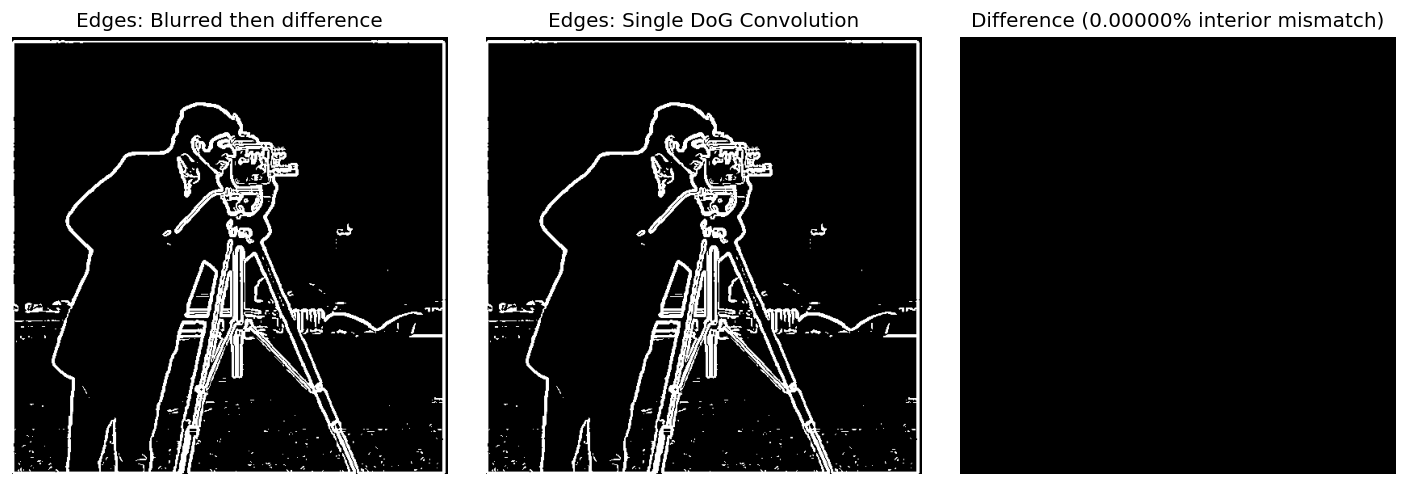
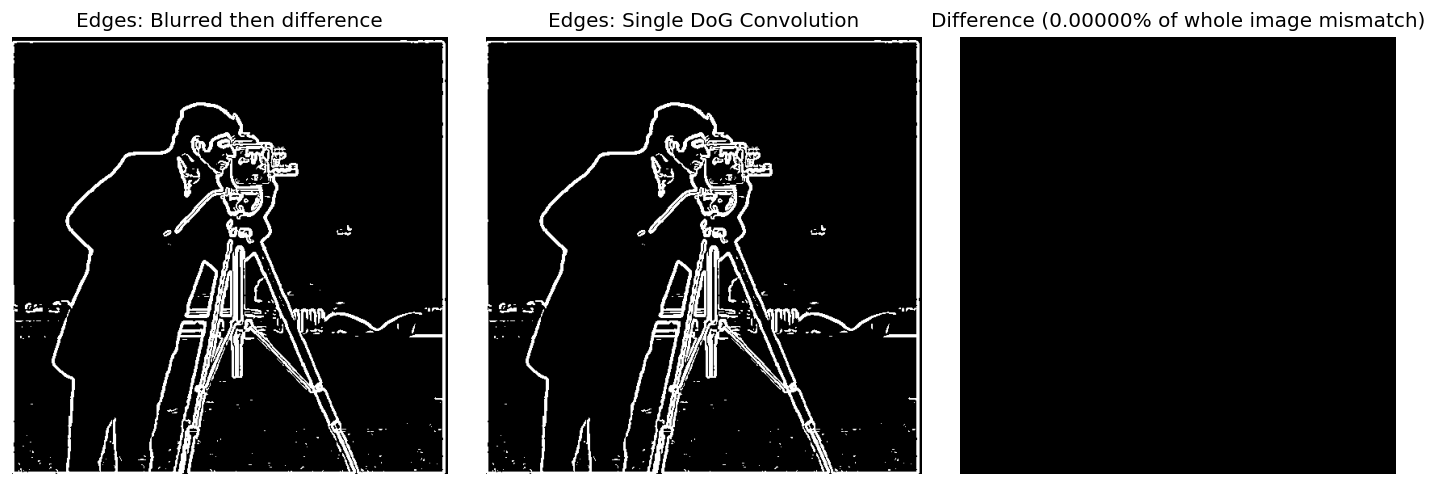
grammer

diff --git a/2/index.html b/2/index.html
@@ -260,7 +260,7 @@
         From the results above, I decided to select a threshold value of 0.2. At 0.1 and 0.15, many pixels were flagged as 
         edges. This results in a lot of noise in the background. At 0.25 and above, most of the noise have been removed. 
         However, it also starts to drop edges from the cameraman and the tripod. Therefore, 0.2 was the best middle point
-        to ensure that the image while still shows the finer edges of the tripod and the outline of the cameramen. 
+        to ensure that the image while still showing the finer edges of the tripod and the outline of the cameramen. 
       </p>
 
 
@@ -270,7 +270,7 @@
     <p>
         Applying the finite difference operators directly to the original image results in noisy edges. To fix this, 
         I first blurred the image using a Gaussian filter and then applied the 
-        difference operators. I also created a derivatibe of Gaussian (DoG) 
+        difference operators. I also created a derivative of Gaussian (DoG) 
         filter by convolving the Gaussian with D_x and D_y first and verified 
         that applying it to the original image returns the same result with only 
         one convolution operation.
@@ -290,7 +290,7 @@
     </p>
     <h4>What differences do I see?</h4> 
     <div class="image-grid-2-2">
-      <figure><img src="media/part1_2_gradient_magnitude_0_2.png" alt="Threshold 0.2 " alt="Prev Grad Mag"><figcaption>Previous Gradient Magnitude</figcaption></figure>
+      <figure><img src="media/part1_2_gradient_magnitude_0_2.png" alt="Prev Grad Mag"><figcaption>Previous Gradient Magnitude</figcaption></figure>
       <figure><img src="media/part1_3_sigma_comparisons_gradient_magnitude_1.0.png" alt="New Grad Mag"><figcaption>New Gradient Magnitude</figcaption></figure>
       <figure><img src="media/part1_2_edges_0_2.png" alt="Threshold 0.2 " alt="Prev Edges"><figcaption>Previous Edges</figcaption></figure> 
       <figure><img src="media/part1_3_sigma_comparisons_edges_1.0.png" alt="New Edges"><figcaption>New Edges</figcaption></figure>       
@@ -298,7 +298,7 @@
     <p>
       From the comparisons above, the main difference that I can see is by blurring the image first is that 
       the edges are more pronounced. Additionally, the amount of noise around the bottom of the image has been 
-      completely removed. The trade-off for this is that the edges have becoem 
+      completely removed. The trade-off for this is that the edges have become 
       thicker and very fine details such as the cameraman's face are smoothed 
       away.
     </p>
@@ -309,7 +309,7 @@
       is the same as convolving the image once with a filter made by 
       combining the Gaussian and the difference operator ahead of time.
       $$(I * G) * D_x = I * (G * D_x)$$
-      I built the DoG fikters by convolving the 2D Gaussian kernel directly with 
+      I built the DoG filters by convolving the 2D Gaussian kernel directly with 
       d_x and D_y. The resulting filters act as a single operation that 
       smooths the image and extracts the gradient at the same time.
     </p>
@@ -318,21 +318,18 @@
     </div>    
 
     <h4>Verification of Results</h4>
-    <!-- <p>
-      I compared my two step pipeline with the single DoG convolution. 
-      With the zero padding used throughout Part 1, the gradient images 
-      agree over the interior of the image to within the floating point 
-      rounding with a maximum difference of _____ for both x and y. 
-    </p> -->
     <p>
       To verify that the single DoG convolution produces the same result as the two-step process 
-      (blurring, then computing the difference), I compared their outputs. Due to boundary padding 
-      artifacts skewing the maximum gradient values at the extreme edges, I normalised 
-      both images using only their interior pixels. 
+      (blurring, then computing the difference), I compared their outputs using symmetric 
+      boundary padding for every convolution involved rather than zero padding. 
+      With zero padding, the two routes disagrees at the image border since 
+      zero padding is applied once for the DoG route but twice for the two 
+      step route. With symmetric padding, this discrepancy disappears 
+      entirely, causing the two routes to agree over the whole image.
       <br><br>
-      As shown below, the binary edge maps are identical, differing in 0.0% of the interior 
+      As shown below, the binary edge maps are identical, differing in 0.00000% of
       pixels. The raw gradient magnitude arrays had a maximum difference of 7.77e-16, which is strictly 
-      limited to floating-point machine precision.
+      limited to floating-point noise, confirming (I * G) * D_x = I * (G * D_x).
     </p>
     <div class="image-grid-1">
       <figure><img src="media/part1_3_DoG_verification.png" alt="Verification"><figcaption>Verification</figcaption></figure>
@@ -359,7 +356,7 @@
       </div>
       
       <p>
-        To determine the best alpha for sharpening, I interated through a series of alphas. The results are display 
+        To determine the best alpha for sharpening, I iterated through a series of alphas. The results are display 
         below.
       </p>
       <div class="image-grid-2-2">
@@ -391,9 +388,9 @@
         <figure><img src="media/part2_1_resharpened_image.png" alt="Resharpened"><figcaption>Resharpened</figcaption></figure>
       </div>
       <p>
-        The unsharp masking amplifies the frequecy content that survived the blurring. However, it is unable to recover 
+        The unsharp masking amplifies the frequency content that survived the blurring. However, it is unable to recover 
         destroyed details. Once the fine textures are averaged away by the Gaussian, no amount of high frequency boosting 
-        can recover it. Hence, this explains why the resharpened image looks blurrer than the original sharp image.
+        can recover it. Hence, this explains why the resharpened image looks blurrier than the original sharp image.
       </p>
     <!-------------------------------------------------------------------------------->
 
@@ -434,13 +431,13 @@
         a blurred Nutmeg. A larger σ2 removes on the lowest frequencies, so 
         more of its details are passed through.<br>
         <br>
-        A small σ1 leave too much of Derek's fine features that competes with 
+        A small σ1 leaves too much of Derek's fine features that competes with 
         Nutmeg's details up close, while having too large of a σ1 turns him 
         into a shapeless blur that is hard to recognise at far distances. A 
         small σ2 leaves too little of Nutmeg to see up close, while a large σ2 
-        lets too much of its structure thorugh that she dominates the image 
+        lets too much of its structure through that she dominates the image 
         even at a far distance. For Derek and Nutmeg, I chose σ1 = 12 and σ2 = 8 
-        as the it gave the best balance between the two. For the two other 
+        as it gave the best balance between the two. For the two other 
         examples, I followed this same procedure, but will not be showing 
         this grid.
       </p>
@@ -459,7 +456,7 @@
         For this hybrid image, I used sigma1 = 3 and sigma2 = 4.
       </p>
       <div class="image-grid-3">
-        <figure><img src="media/part2_2_im1_aligned_lord_squaadward.png" alt="Faaquaad Aligned"><figcaption>Faaquaad Aligned</figcaption></figure>
+        <figure><img src="media/part2_2_im1_aligned_lord_squaadward.png" alt="Farquaad Aligned"><figcaption>Farquaad Aligned</figcaption></figure>
         <figure><img src="media/part2_2_im2_aligned_lord_squaadward.png" alt="Squidward Aligned"><figcaption>Squidward Aligned</figcaption></figure>
         <figure><img src="media/part2_2_hybrid_lord_squaadward.png" alt="Lord Squaadward Hybrid"><figcaption>Lord Squaadward Hybrid</figcaption></figure>
       </div>
@@ -489,7 +486,7 @@
       </div>
 
       <div class="highlight">
-        <strong>Frequency Analysis (Fourier Transforms): (TO DO: USE THIS FOR EITHER SQUAIDWARD OR SPONGEBOB)</strong>
+        <strong>Frequency Analysis (Fourier Transforms):</strong>
         <p>Below are the 2D Fourier transforms showing the frequency domain at each step of the process. You can see the high-pass filter leaving only the outer perimeter (high frequencies) and the low-pass filter leaving only the bright center (low frequencies).</p>
       </div>
       <div class="image-grid-5-2">
@@ -502,12 +499,12 @@
         <figure><img src="media/part2_2_im1_aligned_tankbob_fft.png" alt="Tank Cat FFT"><figcaption>Tank Cat FFT</figcaption></figure>
         <figure><img src="media/part2_2_low_freq_tankbob_fft.png" alt="Tank Cat Low Pass FFT"><figcaption>T-Cat Low Pass FFT</figcaption></figure>
         <figure><img src="media/part2_2_im2_aligned_tankbob_fft.png" alt="Spongebob FFT"><figcaption>Spongebob FFT</figcaption></figure>
-        <figure><img src="media/part2_2_high_freq_tankbob_fft.png" alt="Spongebob Low Pass FFT"><figcaption>S-bob High Pass FFT</figcaption></figure>
+        <figure><img src="media/part2_2_high_freq_tankbob_fft.png" alt="Spongebob High Pass FFT"><figcaption>S-bob High Pass FFT</figcaption></figure>
         <figure><img src="media/part2_2_hybrid_tankbob_fft.png" alt="Hybrid FFT"><figcaption>Hybrid FFT</figcaption></figure>
       </div>
       <p>
         The log magnitude of the 2D fourier Transform shows how the 
-        filters isolates specific frequencies. The low passed Tank Cat 
+        filters isolate specific frequencies. The low passed Tank Cat 
         spectrum has its energy tightly concentrated at the center and 
         fades to black towards the edges since the high frequencies 
         have been filtered out. However, the high passed Spongebob 
@@ -565,7 +562,7 @@
         <figure><img src="media/part2_4_catdog_blended.png" alt="CatDog Blended"><figcaption>Multiresolution Blend</figcaption></figure>
       </div>
 
-      <h4>Custom Blend 2: Shrek Wazowski (Irregular Masking)</h4>
+      <h4>Custom Blend 2: Shrek Wazowski (Irregular Masking) (Favourite)</h4>
       <p>
         For my final blend, I placed Shrek's face onto Mike Wazowski's body. Because their shapes are complex, 
         a vertical split would not work. I utilised a custom irregular mask. This requires the user to manually 
@@ -602,8 +599,8 @@
         The most important thing I learnt is that images are not just static grids of pixels, but consist of 
         high and low frequencies that can be used to manipulate human perception.
         <br><br>
-        By isolating these high and low frequencies using Gaussian filters and Laplacian substraction, I saw
-        how high frequencies dictate sharp edges and fine details, while low frequencies controls smooth colour 
+        By isolating these high and low frequencies using Gaussian filters and Laplacian subtraction, I saw
+        how high frequencies dictate sharp edges and fine details, while low frequencies control smooth colour 
         gradients and overall image structure. This dual nature is what helped me make hybrid images like "Lord 
         Squaadward" and "Tankbob" possible. By mathematically overlaying the high frequency details of one subject 
         onto the low frequency base of the other, the resulting image is able to trick the human eye purely based 
